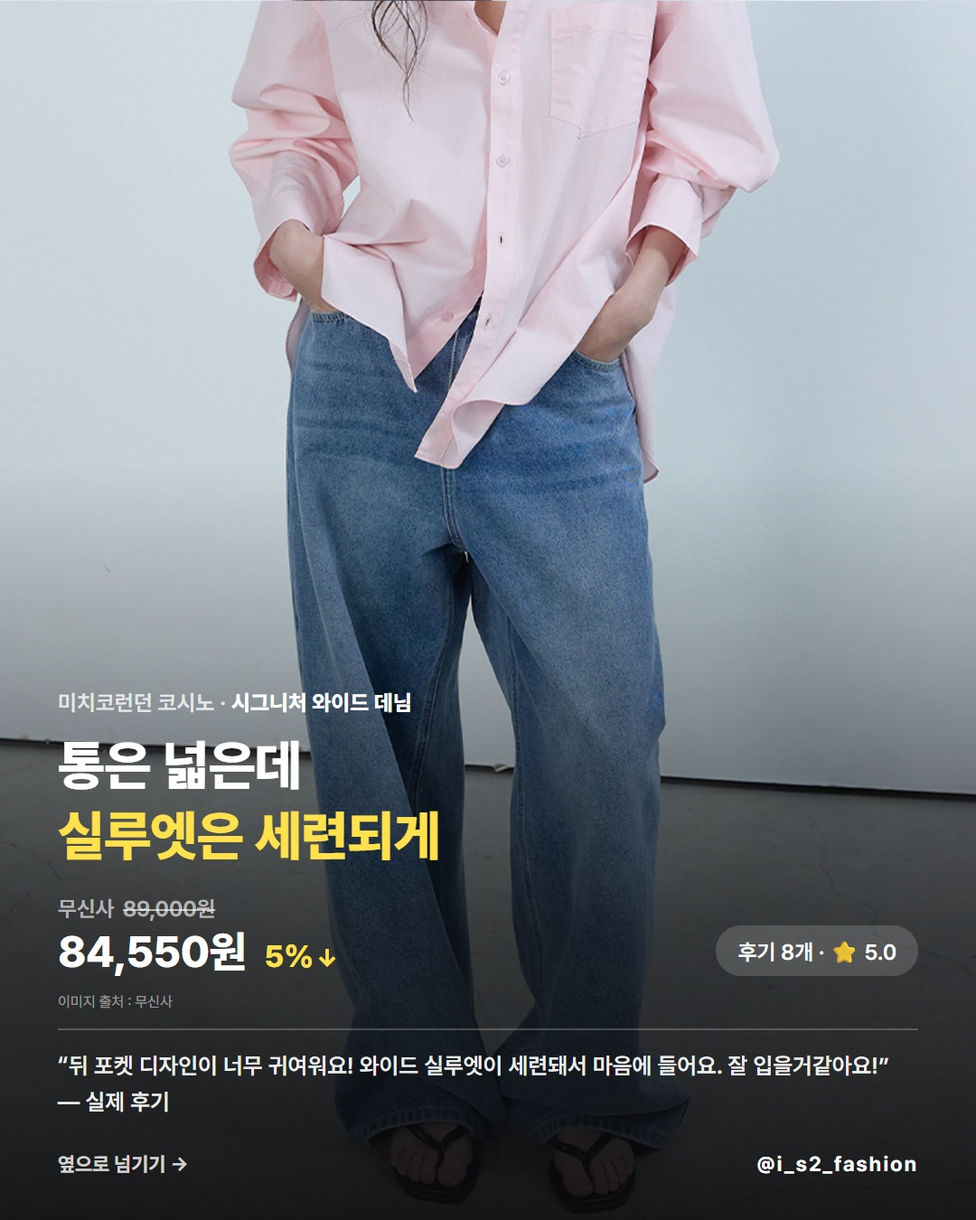
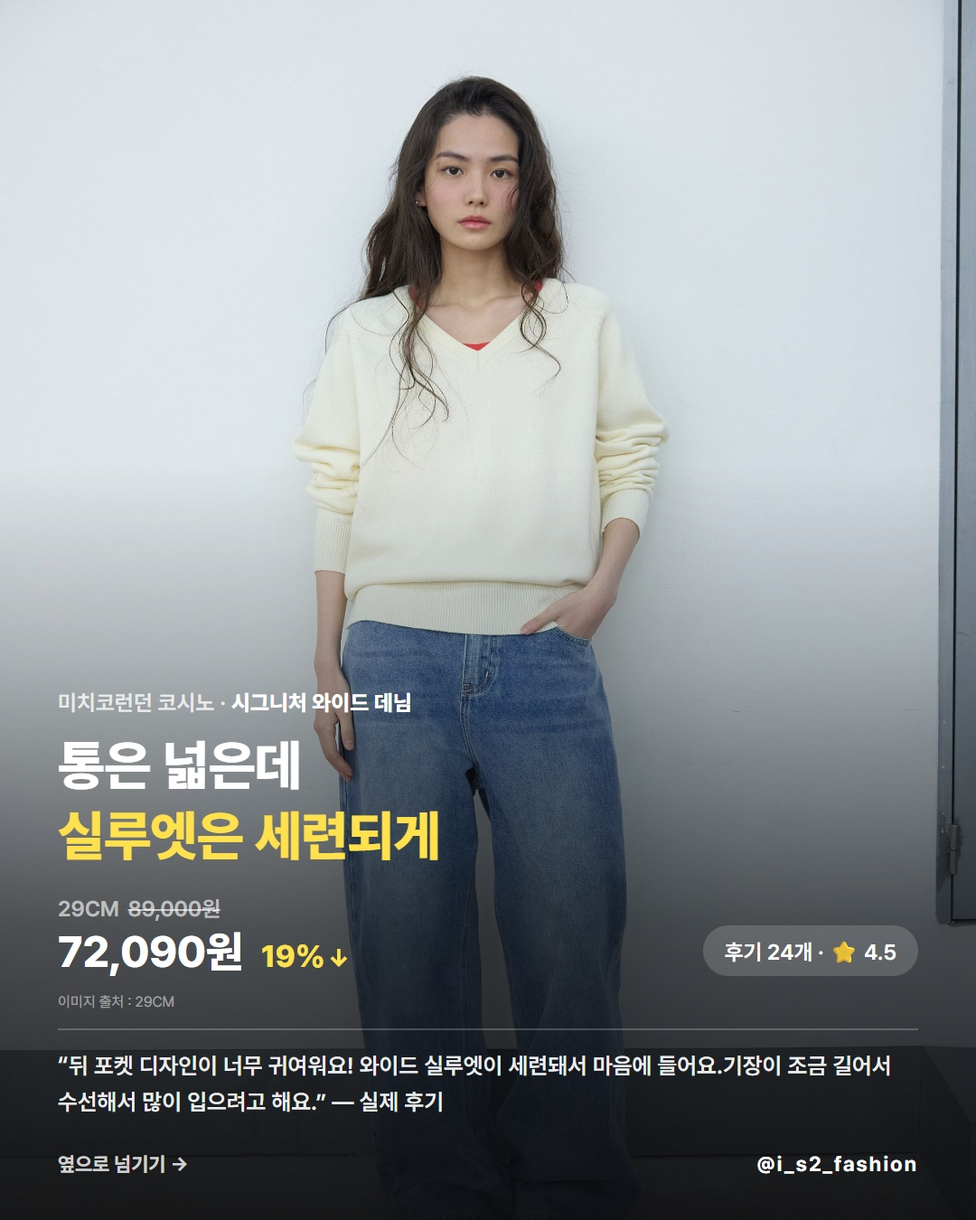
chore: auto-commit by Claude Code (2026-09-05 21:17:45)

diff --git a/card-drafts/early-autumn-denim/index.html b/card-drafts/early-autumn-denim/index.html
@@ -64,19 +64,20 @@
 .card.cover .over .title{font-size:42px;line-height:1.22;letter-spacing:-.5px}
 .card.cover .over .sub{font-size:15px;color:rgba(255,255,255,.85);margin-top:14px;line-height:1.65}
 .card.cta .foot{text-align:right;color:#101012;letter-spacing:.08em}
-</style></head><body><div class="head"><h1>초가을 데님 카드뉴스 · 전면 이미지형 · @i_s2_fashion</h1><p>표지 → 세미 커브드 · 시그니처 와이드 · 논페이드 부츠컷 · 로우라이즈 플레어 · 벌룬 데미지 → CTA (7장)<br>2026-09-04 확정 전면 이미지형 · 상품 정보: 무신사 2026-09-05 실측</p></div><div class="toolbar"><button onclick="exportAll()">⬇ 전체 PNG 내보내기 (7장)</button></div><div class="board" id="board"></div>
+</style></head><body><div class="head"><h1>초가을 데님 카드뉴스 · 전면 이미지형 · @i_s2_fashion</h1><p>표지 → 세미 커브드 · 시그니처 와이드 · 논페이드 부츠컷 · 로우라이즈 플레어 · 벌룬 데미지 → CTA (7장)<br>2026-09-04 확정 전면 이미지형 · 상품 정보: 무신사·29CM 2026-09-05 실측(저렴한 몰 기준)</p></div><div class="toolbar"><button onclick="exportAll()">⬇ 전체 PNG 내보내기 (7장)</button></div><div class="board" id="board"></div>
 <script src="https://cdnjs.cloudflare.com/ajax/libs/html2canvas/1.4.1/html2canvas.min.js"></script><script>
 const cards=[
 {kind:'cover',img:'assets/cover-secondsalt.jpg',pos:'50% 50%',lab:'표지',kicker:'EARLY AUTUMN DENIM',title:'여름엔 뺐던 청바지<br><em>이제 꺼낼 때</em>',sub:'커브드 · 와이드 · 부츠컷 · 플레어 · 벌룬'},
 {kind:'item',img:'assets/01-ourdayz.jpg',pos:'50% 50%',lab:'아워데이즈',badge:'31%',prod:'아워데이즈 · <b>세미 커브드 데님 팬츠</b>',title:'마른 체형도 핏 살고<br><em>다리는 길어 보여</em>',meta:'무신사 <s>66,000원</s> 45,540원',proof:'후기 99개 · ⭐ 4.9',sp:'“입었을 때 마른 사람도 핏 괜찮게 떨어지고 무엇보다 다리 길어보이는 게 좋네요” —&nbsp;실제&nbsp;후기'},
-{kind:'item',img:'assets/02-michiko.jpg',pos:'50% 50%',lab:'미치코런던 코시노',badge:'5%',prod:'미치코런던 코시노 · <b>시그니처 와이드 데님</b>',title:'통은 넓은데<br><em>실루엣은 세련되게</em>',meta:'무신사 <s>89,000원</s> 84,550원',proof:'후기 8개 · ⭐ 5.0',sp:'“뒤 포켓 디자인이 너무 귀여워요! 와이드 실루엣이 세련돼서 마음에 들어요. 잘 입을거같아요!” —&nbsp;실제&nbsp;후기'},
+{kind:'item',img:'assets/02-michiko.jpg',pos:'50% 30%',lab:'미치코런던 코시노',badge:'19%',prod:'미치코런던 코시노 · <b>시그니처 와이드 데님</b>',title:'통은 넓은데<br><em>실루엣은 세련되게</em>',meta:'29CM <s>89,000원</s> 72,090원',proof:'후기 24개 · ⭐ 4.5',sp:'“뒤 포켓 디자인이 너무 귀여워요! 와이드 실루엣이 세련돼서 마음에 들어요.기장이 조금 길어서 수선해서 많이 입으려고 해요.” —&nbsp;실제&nbsp;후기'},
 {kind:'item',img:'assets/03-mireco.jpg',pos:'50% 50%',lab:'미레코',badge:'10%',prod:'미레코 · <b>논페이드 부츠컷 데님</b>',title:'생지인데 편하고<br><em>핏은 예쁘게</em>',meta:'무신사 <s>90,000원</s> 81,000원',proof:'후기 35개 · ⭐ 4.8',sp:'“생지 데님인데 너무 편하고 그러면서 바지 핏도 예뻐요 길이는 좀 길어서 수선했습니다” —&nbsp;실제&nbsp;후기'},
 {kind:'item',img:'assets/04-notfornerd.jpg',pos:'50% 50%',lab:'낫포너드',badge:'30%',prod:'낫포너드 · <b>로우라이즈 플레어 데님</b>',title:'다들 어디 거냐고<br><em>물어보는 핏</em>',meta:'무신사 <s>99,000원</s> 69,000원',proof:'후기 28개 · ⭐ 4.8',sp:'“핏 존예 다들 어디꺼냐고 물어봐요 로우라이즈 핏 딱 좋고 허리사이즈 길이 다 완전 저한테 딱 이에요 스판이 많이 없어서 앉아있을때 좀 불편하긴한데 그래도 예뻐서 참을만해요 ㅎ” —&nbsp;실제&nbsp;후기'},
 {kind:'item',img:'assets/05-secondsalt.jpg',pos:'50% 50%',lab:'세컨드솔트',badge:'12%',prod:'세컨드솔트 · <b>벌룬 데미지 데님 팬츠</b>',title:'찢청에 벌룬핏은<br><em>신의 한 수</em>',meta:'무신사 <s>79,000원</s> 69,520원',proof:'후기 73개 · ⭐ 4.8',sp:'“찢청 원래도 좋아하지만 이 벌룬핏이 신의한수!! 진짜 넘 예뻐요...  색상도 딱 예쁜 연청!” —&nbsp;실제&nbsp;후기'},
 {kind:'cta',img:'../../CARD/zzal/20260905.jpg',lab:'CTA',title:'청바지 핏 고민이면<br><em>댓글로 연락주세요</em>',sub:'체형 한 줄만 적어주시면<br>이 중에서 골라드릴게요'}];
 function html(c,i){const handle='@i_s2_fashion';if(c.kind==='cta'){return `<div class="card cta" id="card${i}"><div class="toprow"><span class="handle">&nbsp;</span><span class="num">&nbsp;</span></div><div class="photo"><img src="${c.img}" alt="" onload="sizePhoto(this)"></div><div class="caption"><h2 class="title">${c.title}</h2><p class="sub">${c.sub}</p></div><div class="foot">${handle}</div></div>`}
 let photo=`<div class="photo"><img src="${c.img}" alt="" style="--pos:${c.pos||'50% 15%'}"></div>`;
-let body=c.kind==='cover'?`<div class="kicker">${c.kicker}</div><h2 class="title">${c.title}</h2><p class="sub">${c.sub}</p>`:`<div class="prodline">${c.prod}</div><h2 class="title">${c.title}</h2>${(()=>{const m=c.meta.match(/^(\S+) <s>(.*?)<\/s> (.*)$/);return `<div class="pricebox"><div class="was">${m[1]} <s>${m[2]}</s></div><div class="now"><b>${m[3]}</b>${c.badge?`<span class="off">${c.badge}<i>↓</i></span>`:''}<span class="proof">${c.proof}</span></div></div>`})()}<div class="credit">이미지 출처 : 무신사</div><div class="selling">${c.sp}</div>`;
+const m=c.kind==='item'?c.meta.match(/^(\S+) <s>(.*?)<\/s> (.*)$/):null; // m[1]=판매처(무신사|29CM) — 출처 표기도 여기서 따라간다
+let body=c.kind==='cover'?`<div class="kicker">${c.kicker}</div><h2 class="title">${c.title}</h2><p class="sub">${c.sub}</p>`:`<div class="prodline">${c.prod}</div><h2 class="title">${c.title}</h2><div class="pricebox"><div class="was">${m[1]} <s>${m[2]}</s></div><div class="now"><b>${m[3]}</b>${c.badge?`<span class="off">${c.badge}<i>↓</i></span>`:''}<span class="proof">${c.proof}</span></div></div><div class="credit">이미지 출처 : ${m[1]}</div><div class="selling">${c.sp}</div>`;
 return `<div class="card ${c.kind}" id="card${i}">${photo}<div class="shade"></div><div class="over">${body}<div class="bottom"><span>옆으로 넘기기 →</span><span class="handle">${handle}</span></div></div></div>`}
 function sizePhoto(img){const wrap=img.parentElement,isCta=wrap.closest('.cta'),maxW=isCta?400:330,maxH=isCta?380:330,ratio=img.naturalWidth/img.naturalHeight;let w=maxW,h=Math.round(w/ratio);if(h>maxH){h=maxH;w=Math.round(h*ratio)}wrap.style.width=w+'px';wrap.style.height=h+'px'}
 cards.forEach((c,i)=>{let col=document.createElement('div');col.className='col';col.innerHTML=`<div class="slot">${html(c,i)}</div><div class="cap"><span>0${i+1} · ${c.lab}</span><button onclick="save(${i})">PNG 저장</button></div>`;board.append(col)});function fit(){document.querySelectorAll('.col').forEach(col=>{let card=col.querySelector('.card'),slot=col.querySelector('.slot'),s=Math.min(1,col.clientWidth/540);card.style.transform=`scale(${s})`;slot.style.height=675*s+'px'})}fit();addEventListener('resize',fit);

diff --git a/card-drafts/early-autumn-denim/verify.py b/card-drafts/early-autumn-denim/verify.py
@@ -1,12 +1,11 @@
-"""무신사 5종 게시 전 재검증 — 가격·후기 수·평점·구매 가능·인용 원문 존재.
+"""게시 전 재검증 — 무신사·29CM 가격·후기 수·평점·구매 가능·인용 원문 존재 + 몰 간 최저가.
 
 실행:  python verify.py            (Chrome 확장 불필요. Playwright + 실제 Chrome 헤드리스)
-출력:  상품별 salePrice/normalPrice/discountRate, 후기 수·평점, 구매하기 버튼 유무, 인용문 존재 여부.
-       카드(index.html)의 숫자와 다르면 cards 배열을 고치고 render.py 를 다시 돌린다.
+출력:  카드별 [OK]/[CHECK]. 카드(index.html)의 숫자와 다르거나 다른 몰이 더 싸면 CHECK.
+       CHECK 가 나오면 cards 배열을 고치고 render.py 를 다시 돌린다.
 """
-import json
-import re
 import sys
+import urllib.parse
 
 from playwright.sync_api import sync_playwright
 
@@ -14,23 +13,82 @@ CHROME = r"C:\Program Files\Google\Chrome\Application\chrome.exe"
 UA = ("Mozilla/5.0 (Windows NT 10.0; Win64; x64) AppleWebKit/537.36 "
       "(KHTML, like Gecko) Chrome/128.0.0.0 Safari/537.36")
 
-# goodsNo → (카드에 적힌 값, 인용문 앞부분)
-CARDS = {
-    "7009519": dict(brand="아워데이즈", price=45540, normal=66000, rate=31, reviews=99, score=4.9,
-                    quote="입었을 때 마른 사람도 핏 괜찮게 떨어지고"),
-    "5984093": dict(brand="미치코런던 코시노", price=84550, normal=89000, rate=5, reviews=8, score=5.0,
-                    quote="뒤 포켓 디자인이 너무 귀여워요!"),
-    "6026753": dict(brand="미레코", price=81000, normal=90000, rate=10, reviews=35, score=4.8,
-                    quote="생지 데님인데 너무 편하고"),
-    "6135920": dict(brand="낫포너드", price=69000, normal=99000, rate=30, reviews=28, score=4.8,
-                    quote="핏 존예 다들 어디꺼냐고 물어봐요"),
-    "6507751": dict(brand="세컨드솔트", price=69520, normal=79000, rate=12, reviews=73, score=4.8,
-                    quote="찢청 원래도 좋아하지만 이 벌룬핏이 신의한수"),
-}
+# 카드에 적힌 값. mall = 카드에 표기한 판매처. other = 다른 몰에서 같은 상품을 찾는 검색어(없으면 None = 단독).
+CARDS = [
+    dict(brand="아워데이즈", mall="musinsa", no="7009519", price=45540, normal=66000, rate=31, reviews=99, score=4.9,
+         quote="입었을 때 마른 사람도 핏 괜찮게 떨어지고", other=None),  # [젠플록스X아워데이즈] 협업 — 29CM 없음
+    dict(brand="미치코런던 코시노", mall="29cm", no="3749085", price=72090, normal=89000, rate=19, reviews=24, score=4.5,
+         quote="뒤 포켓 디자인이 너무 귀여워요", other=("musinsa", "5984093")),
+    dict(brand="미레코", mall="musinsa", no="6026753", price=81000, normal=90000, rate=10, reviews=35, score=4.8,
+         quote="생지 데님인데 너무 편하고", other=("29cm", "미레코 데님", "NON-FADE BOOTCUT DENIM PT TRUE BLACK")),
+    dict(brand="낫포너드", mall="musinsa", no="6135920", price=69000, normal=99000, rate=30, reviews=28, score=4.8,
+         quote="핏 존예 다들 어디꺼냐고 물어봐요", other=("29cm", "낫포너드 Symbol Stitch", "W Symbol Stitch Low Rise Flare Fit Denim Pants - Light Blue")),
+    dict(brand="세컨드솔트", mall="musinsa", no="6507751", price=69520, normal=79000, rate=12, reviews=73, score=4.8,
+         quote="찢청 원래도 좋아하지만 이 벌룬핏이 신의한수", other=("29cm", "세컨드솔트 벌룬", "벌룬 데미지 데님 팬츠 (빈티지블루)")),
+]
 
 
 def fetch_json(page, url):
     return page.evaluate(f"fetch('{url}').then(r => r.json())")
+
+
+def musinsa(page, no, quote):
+    page.goto(f"https://www.musinsa.com/products/{no}", wait_until="domcontentloaded", timeout=60000)
+    try:
+        page.wait_for_function("() => /구매하기|재입고 알림|품절/.test(document.body.innerText)", timeout=20000)
+    except Exception:
+        pass
+    page.wait_for_timeout(1500)
+    text = page.evaluate("document.body.innerText")
+    price = fetch_json(page, f"https://goods-detail.musinsa.com/api2/goods/{no}")["data"]["goodsPrice"]
+    summ = fetch_json(page, f"https://goods.musinsa.com/api2/review/v1/goods/{no}/reviews/summary")["data"]
+    found = False
+    if quote:
+        for pg in range(0, 20):
+            url = (f"https://goods.musinsa.com/api2/review/v1/view/list?page={pg}&pageSize=20&goodsNo={no}"
+                   f"&sort=up_cnt_desc&selectedSimilarNo={no}&myFilter=false&hasPhoto=false&isExperience=false")
+            lst = (fetch_json(page, url).get("data") or {}).get("list") or []
+            if not lst:
+                break
+            if any(quote in (r.get("content") or "") for r in lst):
+                found = True
+                break
+    return dict(price=price["salePrice"], normal=price["normalPrice"], rate=price["discountRate"],
+                reviews=summ["totalCount"], score=summ["satisfactionScore"],
+                buyable="구매하기" in text, restock="재입고 알림" in text, quote=found)
+
+
+def cm29_search(page, keyword, item_name=None):
+    """29CM 검색 API (페이지 안 fetch). item_name 이 있으면 정확히 일치하는 상품만."""
+    url = ("https://search-api.29cm.co.kr/api/v4/products/search?keyword="
+           + urllib.parse.quote(keyword) + "&page=1&size=20")
+    prods = (fetch_json(page, url).get("data") or {}).get("products") or []
+    if item_name:
+        prods = [p for p in prods if (p.get("itemName") or "").strip() == item_name]
+    return prods
+
+
+def cm29(page, item_no, quote, keyword=None, item_name=None):
+    page.goto(f"https://product.29cm.co.kr/catalog/{item_no}", wait_until="domcontentloaded", timeout=60000)
+    page.wait_for_timeout(3000)
+    text = page.evaluate("document.body.innerText")
+    prods = cm29_search(page, keyword or item_name or "", item_name) if (keyword or item_name) else []
+    p = prods[0] if prods else None
+    si = (p or {}).get("saleInfoV2") or {}
+    found = False
+    if quote:
+        for pg in range(0, 5):
+            r = fetch_json(page, f"https://review-api.29cm.co.kr/api/v4/reviews?itemId={item_no}&page={pg}&size=20&sort=BEST")
+            res = (r.get("data") or {}).get("results") or []
+            if not res:
+                break
+            if any(quote in (x.get("contents") or "") for x in res):
+                found = True
+                break
+    return dict(price=si.get("totalSellPrice"), normal=(p or {}).get("consumerPrice"), rate=si.get("totalSaleRate"),
+                reviews=(p or {}).get("reviewCount"), score=(p or {}).get("reviewAveragePoint"),
+                buyable=(p is not None and not p.get("isSoldOut")) and "품절" not in text[:2000],
+                restock=False, quote=found)
 
 
 def main():
@@ -38,43 +96,45 @@ def main():
     with sync_playwright() as p:
         browser = p.chromium.launch(executable_path=CHROME, headless=True,
                                     args=["--disable-blink-features=AutomationControlled"])
-        ctx = browser.new_context(locale="ko-KR", user_agent=UA,
-                                  viewport={"width": 1280, "height": 900})
+        ctx = browser.new_context(locale="ko-KR", user_agent=UA, viewport={"width": 1280, "height": 900})
         page = ctx.new_page()
-        for no, card in CARDS.items():
-            page.goto(f"https://www.musinsa.com/products/{no}", wait_until="domcontentloaded", timeout=60000)
-            # 구매 영역은 늦게 렌더된다 — '구매하기' 또는 '재입고 알림' 이 뜰 때까지 최대 20초 대기
-            try:
-                page.wait_for_function(
-                    "() => /구매하기|재입고 알림|품절/.test(document.body.innerText)", timeout=20000)
-            except Exception:
-                pass
-            page.wait_for_timeout(1500)
-            text = page.evaluate("document.body.innerText")
-            buyable = "구매하기" in text
-            restock = "재입고 알림" in text
-            price = fetch_json(page, f"https://goods-detail.musinsa.com/api2/goods/{no}")["data"]["goodsPrice"]
-            summ = fetch_json(page, f"https://goods.musinsa.com/api2/review/v1/goods/{no}/reviews/summary")["data"]
-            found = False
-            for pg in range(0, 20):
-                url = (f"https://goods.musinsa.com/api2/review/v1/view/list?page={pg}&pageSize=20&goodsNo={no}"
-                       f"&sort=up_cnt_desc&selectedSimilarNo={no}&myFilter=false&hasPhoto=false&isExperience=false")
-                lst = (fetch_json(page, url).get("data") or {}).get("list") or []
-                if not lst:
-                    break
-                if any(card["quote"] in (r.get("content") or "") for r in lst):
-                    found = True
-                    break
-            got = dict(price=price["salePrice"], normal=price["normalPrice"], rate=price["discountRate"],
-                       reviews=summ["totalCount"], score=summ["satisfactionScore"])
-            diff = {k: (card[k], got[k]) for k in got if card[k] != got[k]}
-            status = "OK" if (buyable and found and not diff) else "CHECK"
-            print(f"[{status}] {no} {card['brand']}: 판매가 {got['price']:,} (정가 {got['normal']:,}, {got['rate']}%) · "
-                  f"후기 {got['reviews']} · ⭐{got['score']} · 구매하기 {'있음' if buyable else ('없음 — 재입고 알림만(품절)' if restock else '없음(버튼 미렌더, 재실행)')} · "
-                  f"인용문 {'존재' if found else '없음!!'}"
-                  + (f" · 카드와 다름 {diff}" if diff else ""))
+        # 29CM 검색 API 는 29cm 페이지 컨텍스트에서만 200 — 미리 한 번 열어둔다
+        page.goto("https://www.29cm.co.kr/", wait_until="domcontentloaded", timeout=60000)
+        page.wait_for_timeout(2000)
+        for card in CARDS:
+            # 1) 카드에 표기한 몰의 값
+            if card["mall"] == "musinsa":
+                got = musinsa(page, card["no"], card["quote"])
+            else:
+                got = cm29(page, card["no"], card["quote"], keyword="미치코런던 데님", item_name="Signatuer Wide Denim Mid blue")
+            diff = {k: (card[k], got[k]) for k in ("price", "normal", "rate", "reviews", "score") if card[k] != got[k]}
+            # 2) 다른 몰 가격
+            other_note = "단독"
+            cheaper_elsewhere = False
+            if card["other"]:
+                if card["other"][0] == "musinsa":
+                    o = musinsa(page, card["other"][1], None)
+                    other_note = f"무신사 {o['price']:,}"
+                    cheaper_elsewhere = o["price"] < got["price"]
+                else:
+                    page.goto("https://www.29cm.co.kr/", wait_until="domcontentloaded", timeout=60000)
+                    page.wait_for_timeout(1500)
+                    prods = cm29_search(page, card["other"][1], card["other"][2])
+                    if prods:
+                        op = (prods[0].get("saleInfoV2") or {}).get("totalSellPrice")
+                        other_note = f"29CM {op:,}"
+                        cheaper_elsewhere = op is not None and op < got["price"]
+                    else:
+                        other_note = "29CM 없음"
+            ok = got["buyable"] and got["quote"] and not diff and not cheaper_elsewhere
+            status = "OK" if ok else "CHECK"
+            buy = "있음" if got["buyable"] else ("없음 — 재입고 알림만(품절)" if got["restock"] else "없음(품절 또는 미렌더)")
+            mall = "무신사" if card["mall"] == "musinsa" else "29CM"
+            print(f"[{status}] {card['brand']} ({mall} {card['no']}): 판매가 {got['price']:,} (정가 {got['normal']:,}, {got['rate']}%) · "
+                  f"후기 {got['reviews']} · ⭐{got['score']} · 구매 {buy} · 인용문 {'존재' if got['quote'] else '없음!!'} · 다른 몰: {other_note}"
+                  + (f" · 카드와 다름 {diff}" if diff else "") + (" · ⚠ 다른 몰이 더 싸다" if cheaper_elsewhere else ""))
             if status != "OK":
-                problems.append(no)
+                problems.append(card["brand"])
         browser.close()
     print("\n결과:", "전부 일치 — 게시 가능" if not problems else f"확인 필요 {problems}")
     sys.exit(1 if problems else 0)

diff --git a/card-drafts/early-autumn-denim/result.md b/card-drafts/early-autumn-denim/result.md
@@ -7,22 +7,24 @@
 - **대조군**: 바지 축 `20260810 여름 긴바지`(778·공유 2) / `20260818 늦여름 슬랙스`(114·0). 직전 게시 `20260831 초가을 아우터`(09-04 02:49)는 09-07 02:49 이후 측정.
 - **판정 기준**: +72h **도달 200 이상 + 공유 1건 이상**이면 우세 참고 신호. 도달 100 미만이면 "바지 축 = 긴바지 단발 효과"로 기록.
 - **표지 유형**: 무드형 (실험 #1 보류 중 — 번갈이 규칙 미적용). **디자인**: 전면 이미지형 두 번째 적용.
-- **변수 오염**: 로스터 브랜드 1곳(미치코런던, 3회차) + 신규 4곳. 3번 카드는 얼굴 없는 하반신 착용컷(무신사에 다른 컷 없음). CTA 짤은 09-05 추가된 새 짤.
+- **변수 오염**: 로스터 브랜드 1곳(미치코런던, 3회차) + 신규 4곳. 3번 미치코런던은 무신사보다 29CM이 12,460원 저렴해 **29CM 기준**(가격·사진·후기 수·평점·인용문·출처)으로 통일 — 5장 중 유일한 29CM 카드. CTA 짤은 09-05 추가된 새 짤.
 
 ## 2. 게시 전 검증 (2026-09-05 20:20 · Playwright 헤드리스 Chrome, `verify.py`)
-- 5종 전부 `구매하기` 존재. 인용 후기 5건 원문 존재(통인용). 할인 검산 5건 일치(낫포너드는 API 표기 30%, 실제 30.3%).
-- 09-04 초안 대비 갱신: 아워데이즈 후기 90→99·⭐5.0→4.9 / 미치코런던 후기 7→8 / 낫포너드 40%·59,000→30%·69,000·후기 27→28.
-- 랭킹 표현·해시태그 없음, 출처 "무신사" 5장, 페이지 번호 없음, 상품코드 없음(의류).
+- 5종 전부 구매 가능. 인용 후기 5건 원문 존재(통인용 — 미치코런던은 29CM 후기 원문). 할인 검산 5건 일치(낫포너드 API 표기 30%·실제 30.3%, 미치코런던 89,000×0.81=72,090).
+- 09-04 초안 대비 갱신: 아워데이즈 후기 90→99·⭐5.0→4.9 / 낫포너드 40%·59,000→30%·69,000·후기 27→28 / 미치코런던 무신사 84,550(5%)·후기 8 → **29CM 72,090(19%)·후기 24·⭐4.5**로 판매처 교체.
+- 랭킹 표현·해시태그 없음, 출처 표기 무신사 4장·29CM 1장(판매처와 일치), 페이지 번호 없음, 상품코드 없음(의류).
 
-## 3. 상품 구성 (5종 · 전부 무신사 단독 · 2026-09-05 실측)
+## 3. 상품 구성 (5종 · 무신사 4 + 29CM 1, 몰 간 저렴한 쪽 · 2026-09-05 실측)
 
 | # | 브랜드 | 상품 (goodsNo) | 표시가 | 정가 | 할인 | 후기 | 평점 | 핸들 |
 |---|---|---|---:|---:|---:|---:|---:|---|
 | 2 | 아워데이즈 | 세미 커브드 데님 팬츠 (7009519) | 45,540 | 66,000 | 31% | 99 | 4.9 | `@ourdayz_official` |
-| 3 | 미치코런던 코시노 | 시그니처 와이드 데님 (5984093) | 84,550 | 89,000 | 5% | 8 | 5.0 | `@michiko_london_kr` |
+| 3 | 미치코런던 코시노 | Signatuer Wide Denim Mid blue (**29CM** 3749085) | 72,090 | 89,000 | 19% | 24 | 4.5 | `@michiko_london_kr` |
 | 4 | 미레코 | 논페이드 부츠컷 데님 (6026753) | 81,000 | 90,000 | 10% | 35 | 4.8 | `@to.mireco` |
 | 5 | 낫포너드 | 로우라이즈 플레어 데님 (6135920) | 69,000 | 99,000 | 30% | 28 | 4.8 | `@not4nerd` |
 | 6 | 세컨드솔트 | 벌룬 데미지 데님 팬츠 (6507751) | 69,520 | 79,000 | 12% | 73 | 4.8 | `@secondsalt_official` |
+
+몰 간 비교(09-05, 표시가 기준): 아워데이즈 29CM 없음(협업) · 미치코런던 **29CM 72,090 < 무신사 84,550 → 29CM 채택**(사진·후기 수·평점·출처도 29CM으로 통일, 인용문은 29CM 후기 원문) · 미레코 동가 81,000(무신사 유지) · 낫포너드 29CM 89,000 > 무신사 69,000 · 세컨드솔트 29CM 71,100 > 무신사 69,520.
 
 핸들 3중 검증(웹검색 + 공식몰 footer + 인스타 프로필) 09-05 전부 통과. 낫포너드는 공식몰에 `@not4nerd_official` 도 병기돼 있어 팔로워 46K·footer 링크인 `@not4nerd` 선택.
 

diff --git a/card-drafts/early-autumn-denim/README.md b/card-drafts/early-autumn-denim/README.md
@@ -31,19 +31,20 @@ python ../../scripts/post_ig.py "20260904 초가을 데님"   # 3) ★ 사용자
 | `result.md` | 실험 로그 (게시 폴더에도 복사). 게시 전 설계는 채워져 있고 §4~§8 은 게시 후 채운다. |
 | `_old/` | 09-04 구 레이아웃 초안. 참고용, 삭제 가능. |
 
-## 카드 구성 (2026-09-05 실측 · 전부 무신사 단독 · 전부 구매 가능)
+## 카드 구성 (2026-09-05 실측 · 무신사 4 + 29CM 1 — 몰 간 저렴한 쪽 · 전부 구매 가능)
 
 | 카드 | 브랜드 · 상품 (goodsNo) | 정가 → 판매가 (할인) | 후기 · 평점 | 사진 원본 | 인스타 핸들 (3중 검증 완료) |
 |---|---|---|---|---|---|
 | 1 표지 | 세컨드솔트 벌룬 데미지 (6507751) 벤치 정면 착용컷 | — | — | `cand/6507751/00` | — |
 | 2 | 아워데이즈 · [젠플록스X아워데이즈] 세미 커브드 데님 팬츠 (7009519) | 66,000 → 45,540 (31%) | 99 · 4.9 | `cand/7009519/09` | `@ourdayz_official` (1.2K) |
-| 3 | 미치코런던 코시노 · 시그니처 와이드 데님 미드 블루 (5984093) | 89,000 → 84,550 (5%) | 8 · 5.0 | `cand/5984093/00` (얼굴 없음, 유일한 착용컷) | `@michiko_london_kr` (52.6K, **로스터** 3회차) |
+| 3 | 미치코런던 코시노 · Signatuer Wide Denim Mid blue (**29CM** 3749085 · 무신사 5984093은 84,550원) | 89,000 → **72,090 (19%)** | 24 · 4.5 | `cand/29cm_3749085/18` (정면 전신·얼굴) | `@michiko_london_kr` (52.6K, **로스터** 3회차) |
 | 4 | 미레코 · NON-FADE BOOTCUT DENIM PT TRUE BLACK (6026753) | 90,000 → 81,000 (10%) | 35 · 4.8 | `cand/6026753/01` | `@to.mireco` (19.1K) |
 | 5 | 낫포너드 · W Symbol Stitch Low Rise Flare Fit Denim Pants (6135920) | 99,000 → 69,000 (30%) | 28 · 4.8 | `cand/6135920/05` | `@not4nerd` (46K · 공식몰엔 `@not4nerd_official` 도 병기, footer 쪽인 이걸 택함) |
 | 6 | 세컨드솔트 · 벌룬 데미지 데님 팬츠 빈티지블루 (6507751) | 79,000 → 69,520 (12%) | 73 · 4.8 | `cand/6507751/04` | `@secondsalt_official` (2.1K) |
 | 7 CTA | 무한도전 짤 `../../CARD/zzal/20260905.jpg` ("도움 필요하신 분 연락주세요") | — | — | zzal 폴더 **최신 파일**을 쓴다 | — |
 
-- 가격은 `goodsPrice.salePrice`(쿠폰 전). 무신사 페이지가 크게 보여주는 더 낮은 값은 쿠폰가(`finalPrice`) — 카드에 쓰지 않는다.
+- 가격은 쿠폰 전 표시가(무신사 `goodsPrice.salePrice`, 29CM `saleInfoV2.totalSellPrice`). 두 몰 모두 페이지에 더 낮은 쿠폰가·첫구매가가 크게 떠 있다 — 카드에 쓰지 않는다.
+- **몰 간 비교(09-05)**: 아워데이즈는 협업 상품으로 29CM 없음 · 미치코런던 29CM 72,090 < 무신사 84,550 → **29CM으로 교체(가격·사진·후기·출처 전부 29CM 기준)** · 미레코 29CM 81,000 = 무신사 81,000(동가, 후기 많은 무신사 유지) · 낫포너드 29CM 89,000 > 무신사 69,000 · 세컨드솔트 29CM 71,100 > 무신사 69,520. `verify.py`가 이 비교를 매번 다시 한다.
 - 인용문 5건은 후기 목록에 원문 그대로 존재한다 (통인용·오타 그대로). 헤드라인은 인용 후기에서만 뽑고, **사진에 실제로 보이는 것**만 가리킨다 (3번은 뒤 포켓이 안 보여 "통은 넓은데 / 실루엣은 세련되게").
 - 표지와 6번은 같은 상품이지만 **다른 원본**이다 (규칙: 표지 사진은 상품 카드와 같은 사진 금지).
 - 09-04 초안 → 09-05 재검증 사이 낫포너드 할인율이 40→30%로 바뀌었다. **게시 직전 verify.py 를 반드시 다시 돌린다.**

diff --git a/KEYWORD-POLICY.md b/KEYWORD-POLICY.md
@@ -78,7 +78,7 @@
 
 | 지정일 | 키워드 | 상태 | 축 · 메모 |
 |---|---|---|---|
-| 09-04 | **초가을 데님** | **렌더·검증 완료, 게시 대기** — `card-drafts/early-autumn-denim/README.md` | 바지 축 3번째. 핏 변주(세미 커브드·와이드·부츠컷·로우라이즈 플레어·벌룬). 무신사 5종. 로스터 1(미치코런던)+신규 4. 전면 이미지형 2회차. 캡션은 08-10 "청바지를 한 벌도 넣지 않았다" 되받기 |
+| 09-04 | **초가을 데님** | **렌더·검증 완료, 게시 대기** — `card-drafts/early-autumn-denim/README.md` | 바지 축 3번째. 핏 변주(세미 커브드·와이드·부츠컷·로우라이즈 플레어·벌룬). 무신사 4 + 29CM 1(미치코런던 — 29CM이 12,460원 저렴). 로스터 1(미치코런던)+신규 4. 전면 이미지형 2회차. 캡션은 08-10 "청바지를 한 벌도 넣지 않았다" 되받기 |
 | 08-31 | 초가을 아우터 | 게시 09-04 02:49 → [permalink](https://www.instagram.com/p/Dc1YqVAgT-J/) · 측정 09-07 02:49 이후 | 아우터 종류 변주. 무신사 5종, 로스터 0. **전면 이미지형 첫 적용.** 08-31판에서 품절 1·허위 인용 1·잘린 인용 2, 게시 직전 품절 1 더 잡힘 |
 | 08-26 | 초가을 아가일 | 게시 08-27 18:05 → [permalink](https://www.instagram.com/p/DcibZZIDwhZ/) · 09-04 도달 177·공유 0 | 패턴 축 최초, 품목 변주. 신규 5곳 |
 | 08-19 | 환절기 로퍼 | 게시 08-26 09:50 → [permalink](https://www.instagram.com/p/Dce961Aj5z8/) (09:24 1차는 상품코드 오류로 삭제) | 신발 축, 착화감 기준. 29CM 5종. 로스터 1(마크모크) |

diff --git a/crawler/FINDINGS.md b/crawler/FINDINGS.md
@@ -53,6 +53,7 @@
 
 **검색(게시 직전 가격 재확인)** `GET https://search-api.29cm.co.kr/api/v4/products/search?keyword=…&page=1&size=20`
 - `data.products[]`: `itemNo`(=itemId) · `itemName` · `frontBrandNameKor` · `consumerPrice`(정가) · **`saleInfoV2.totalSellPrice`(표시가, displayPrice와 일치 검산됨)** · `saleInfoV2.totalSaleRate` · `reviewCount` · `reviewAveragePoint` · `isSoldOut`
+- ⚠ 2026-09-05: 이 검색 API도 내 PC `requests`에는 **403**. Playwright로 `www.29cm.co.kr`를 연 뒤 페이지 안에서 fetch하면 200(무신사와 같은 방식). 29CM 상품 페이지(`product.29cm.co.kr/catalog/{itemNo}`)는 Playwright로 열리고 `img.29cm.co.kr/item/…` 이미지가 DOM에 있다(갤러리 1000×1000 + 상세 착용컷 2333×3500, requests로 받아진다). 페이지의 큰 가격은 쿠폰·첫구매가 — 표시가는 `totalSellPrice`.
 - 29CM 상세 페이지는 JS 렌더 — WebFetch로 소재표가 안 잡히면 무신사에서 같은 상품을 찾는다.
 
 ## 운영 확인
